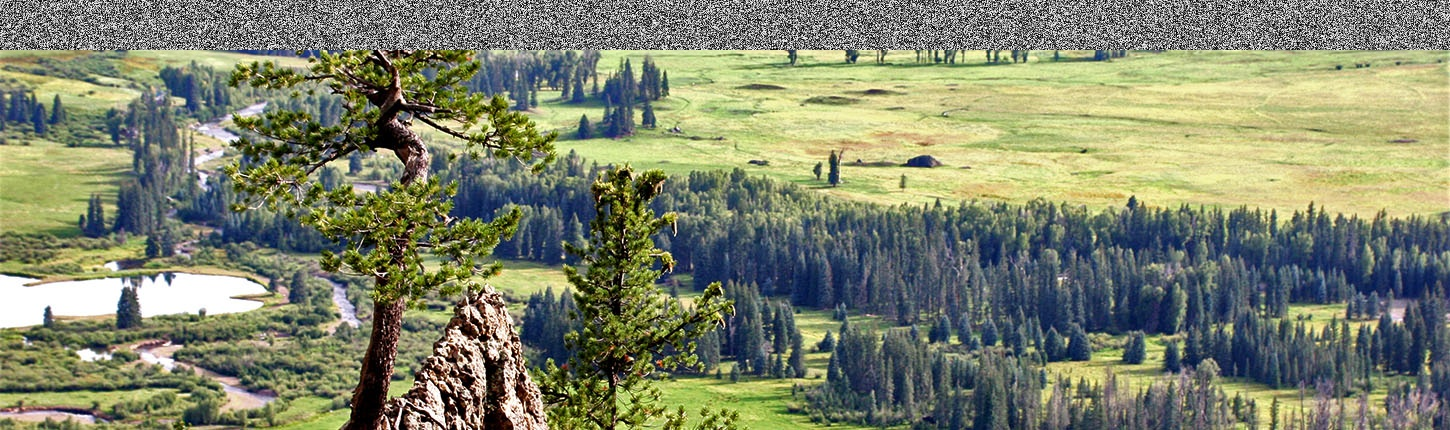
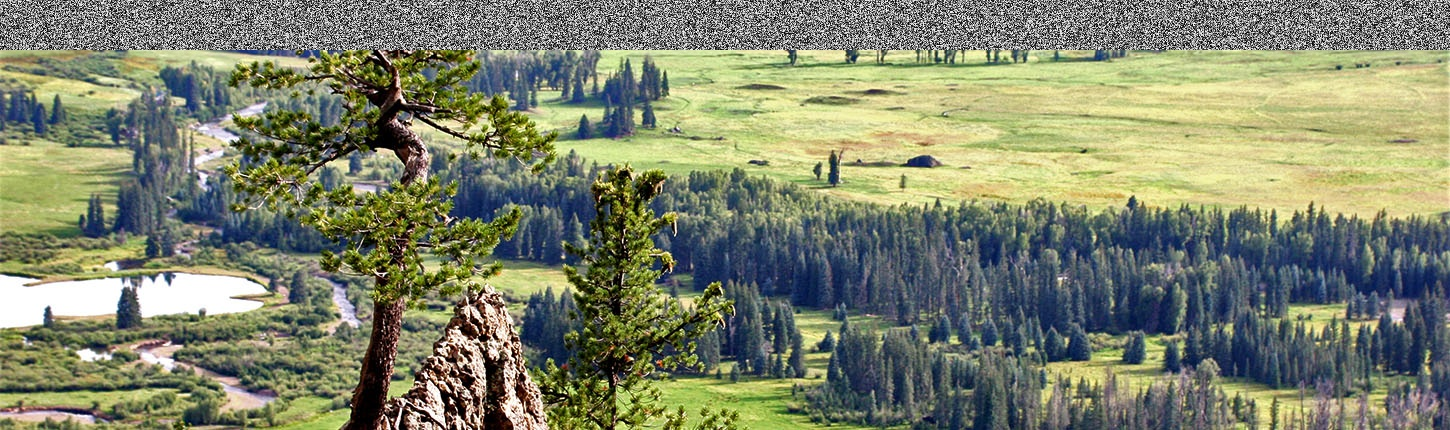
added "noise" and "swap" functionalities

Changed region(s): [[0.0, 0.0, 1.0, 0.1209]]

diff --git a/03_openCV_techWithTim/02_exercises/02_moreBasicImageManipulation.py b/03_openCV_techWithTim/02_exercises/02_moreBasicImageManipulation.py
@@ -33,23 +33,34 @@ example of a 2x2 image
 """
 import cv2
 import random
+from typing import *
+
+class MatrixSlice():
+    def __init__(self,startLine, endLine, startColumn, endColumn):
+        self.startLine = startLine
+        self.endLine = endLine
+        self.startColumn = startColumn
+        self.endColumn = endColumn
 
 def addNoise(img):
     for i in range(50):
         for j in range(len(img[i])):
             img[i][j] = random.randint(0,250)
 
-def move(img,part1:List[List, List], part2:List[List, List]):
-    temp = part1
-    
-    img[part1[0], part1[1]] = img[part2[0], part2[1]]
-    img[part2[0], part2[1]] = img[temp[0], temp[1]]
+def swap(img, fst:MatrixSlice, snd:MatrixSlice):
+    temp = img[fst.startLine:fst.endLine, fst.startColumn:fst.endColumn].copy()
+    img[fst.startLine:fst.endLine, fst.startColumn:fst.endColumn] = img[snd.startLine:snd.endLine, snd.startColumn:snd.endColumn]
+    img[snd.startLine:snd.endLine, snd.startColumn:snd.endColumn] = temp
 
-    
+img1 = cv2.imread("../01_imgs/trees.jpg",1)
+img2 = cv2.imread("../01_imgs/trees.jpg",1)
+print(img1.shape) #(430, 1450, 3)
 
 
-img = cv2.imread("../01_imgs/trees.jpg",1)
-print(img.shape) #(430, 1450)
-addNoise(img)
-move(img, [])
-cv2.imwrite("output2.jpg", img)
+addNoise(img1)
+firstPiece = MatrixSlice(320,400,1300,1380)
+secondPiece = MatrixSlice(1,81,1,81)
+swap(img2, firstPiece, secondPiece)
+
+cv2.imwrite("output2.jpg", img1)
+cv2.imwrite("output3.jpg", img2)
